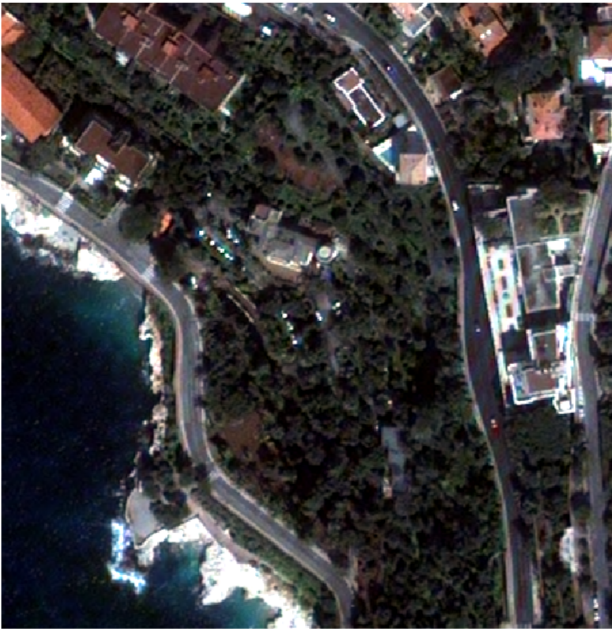
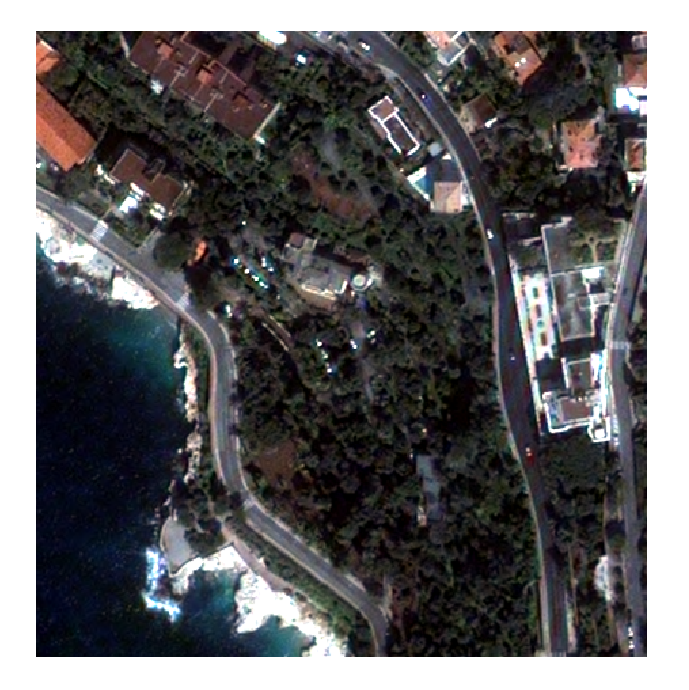
docs: change table + modify size images

diff --git a/docs/source/how_CARS_works/masks_and_classifications_usage.rst b/docs/source/how_CARS_works/masks_and_classifications_usage.rst
@@ -18,19 +18,19 @@ Mask
 
 Below, an example of an area close to Nice with its associated water mask (calculated with SLURP) and the DSM calculated by masking the water zones.
 
-.. |mask_satellite_image| image:: ../images/mask_satellite_nice.png
-  :width: 100%
-.. |mask_watermask| image:: ../images/mask_watermask_nice.png
-  :width: 100%
-.. |mask_dsm| image:: ../images/mask_dsm_nice.png
-  :width: 100%
+.. list-table:: Example mask usage
+   :widths: auto
+   :align: center
 
-+--------------------------+--------------------+-----------------+
-|   Satellite image        |   Water mask       | Masked DSM      |
-+--------------------------+--------------------+-----------------+
-| |mask_satellite_image|   | |mask_watermask|   |  |mask_dsm|     |
-+--------------------------+--------------------+-----------------+
-
+   * - **Satellite Image**
+     - **Water Mask**
+     - **Masked DSM**
+   * - .. image:: ../images/mask_satellite_nice.png
+        :width: 100%
+     - .. image:: ../images/mask_watermask_nice.png
+        :width: 100%
+     - .. image:: ../images/mask_dsm_nice.png
+        :width: 100%
 
 Classification
 --------------
@@ -43,15 +43,17 @@ Classification
 
 Below, an example of an area close to Nice with its associated classification image (calculated with SLURP). The first band corresponds to the water class and the second band to the vegetation class.
 
-.. |classif_satellite_image| image:: ../images/classif_satellite_nice.png
-  :width: 100%
-.. |classif_watermask| image:: ../images/classif_watermask_nice.png
-  :width: 100%
-.. |classif_vegetationmask| image:: ../images/classif_vegetationmask_nice.png
-  :width: 100%
+.. list-table:: Example classification usage
+   :widths: auto
+   :align: center
 
-+----------------------------+------------------------------------+--------------------------------------------+
-|   Satellite image          |   Classification (band 1: "water") |     Classification (band 2: "vegetation")  |
-+----------------------------+------------------------------------+--------------------------------------------+
-| |classif_satellite_image|  | |classif_watermask|                |  |classif_vegetationmask|                  |
-+----------------------------+------------------------------------+--------------------------------------------+
+   * - **Satellite Image**
+     - **Classification (Band 1: "Water")**
+     - **Classification (Band 2: "Vegetation")**
+   * - .. image:: ../images/classif_satellite_nice.png
+        :width: 100%
+     - .. image:: ../images/classif_watermask_nice.png
+        :width: 100%
+     - .. image:: ../images/classif_vegetationmask_nice.png
+        :width: 100%
+
